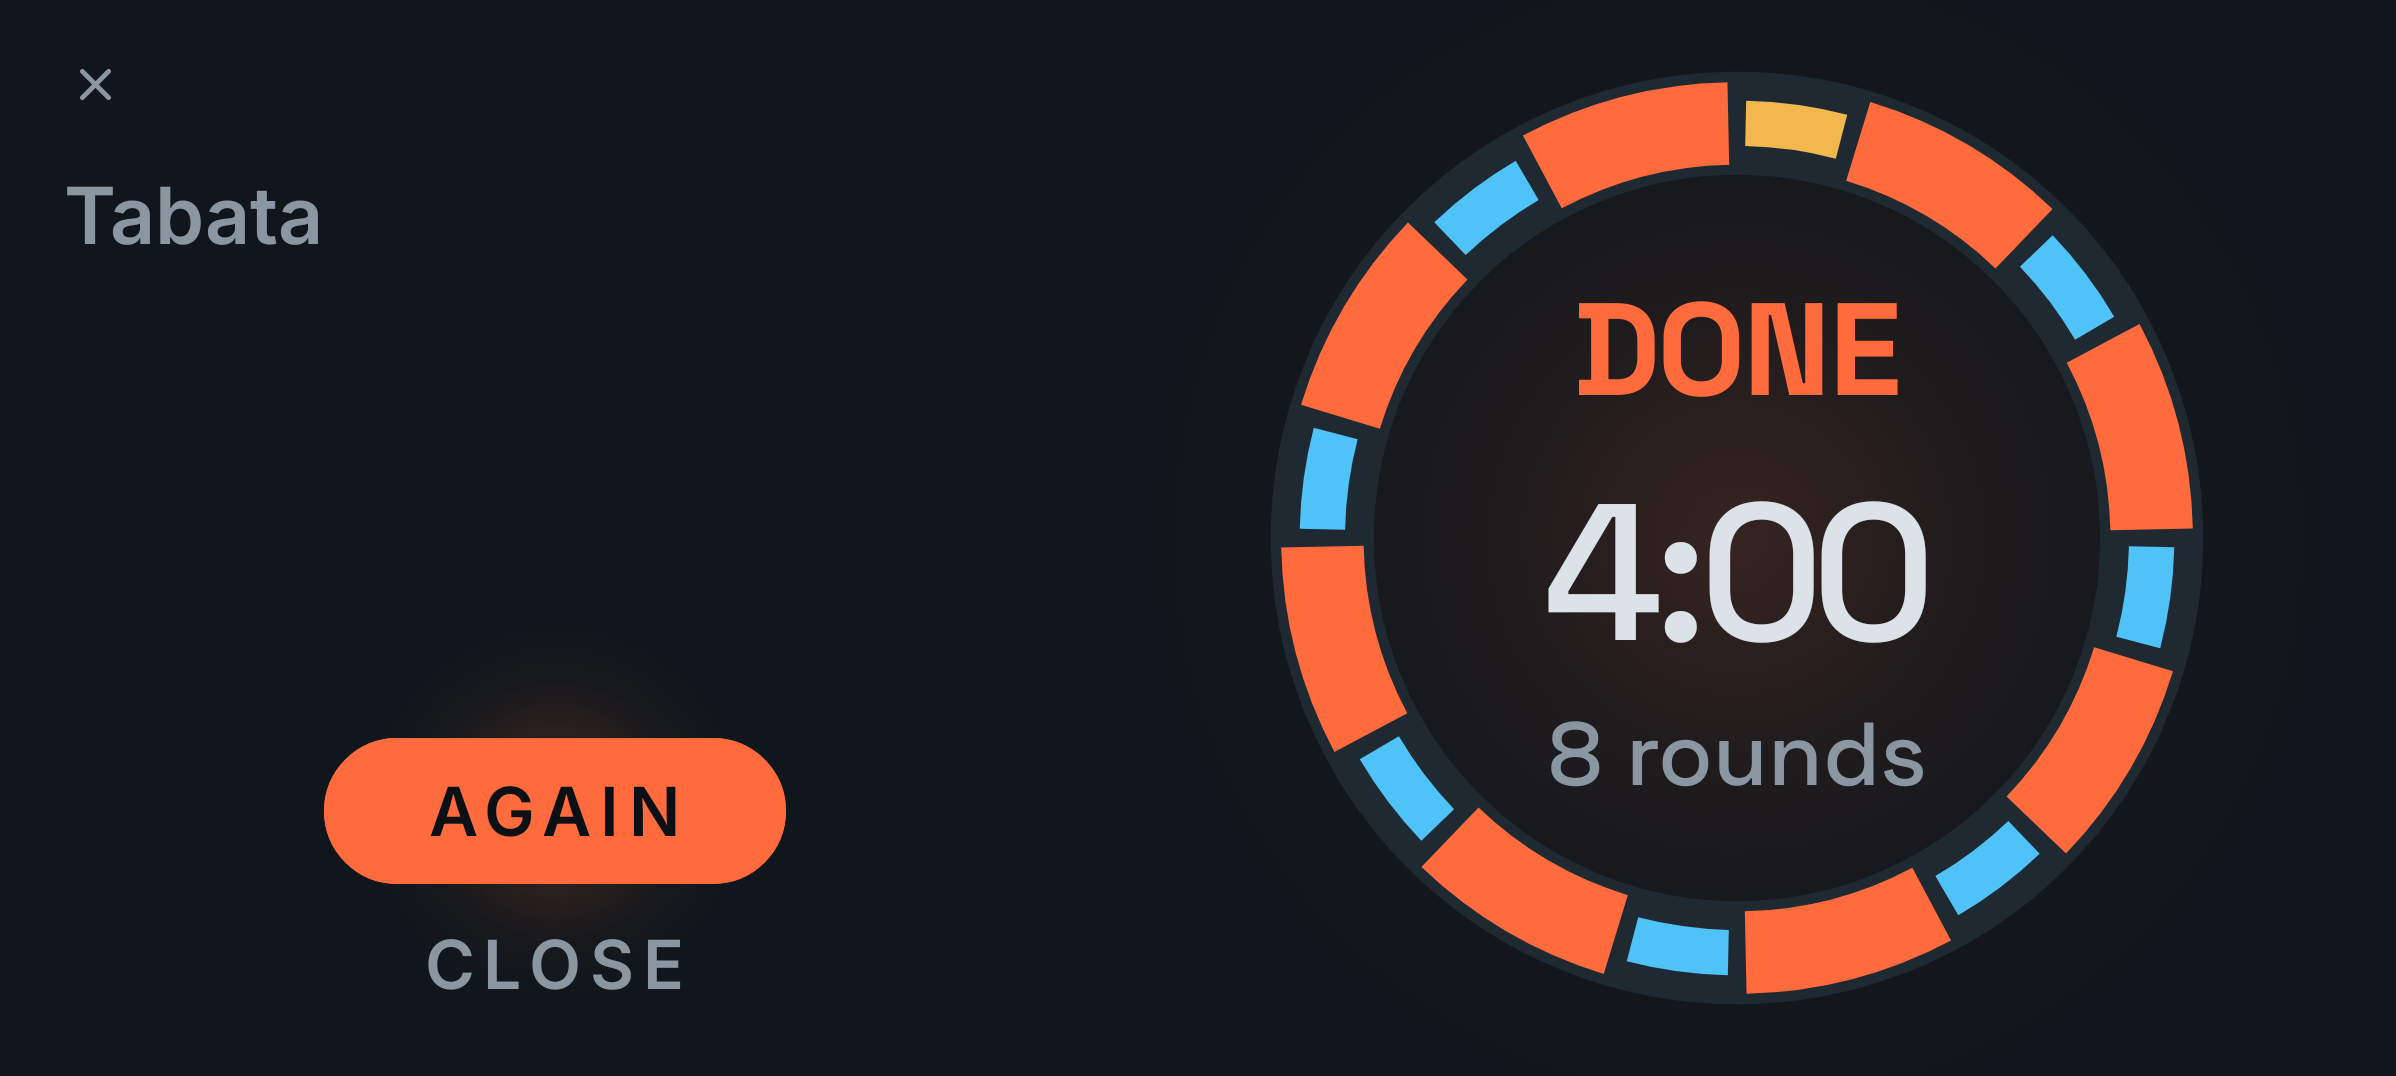
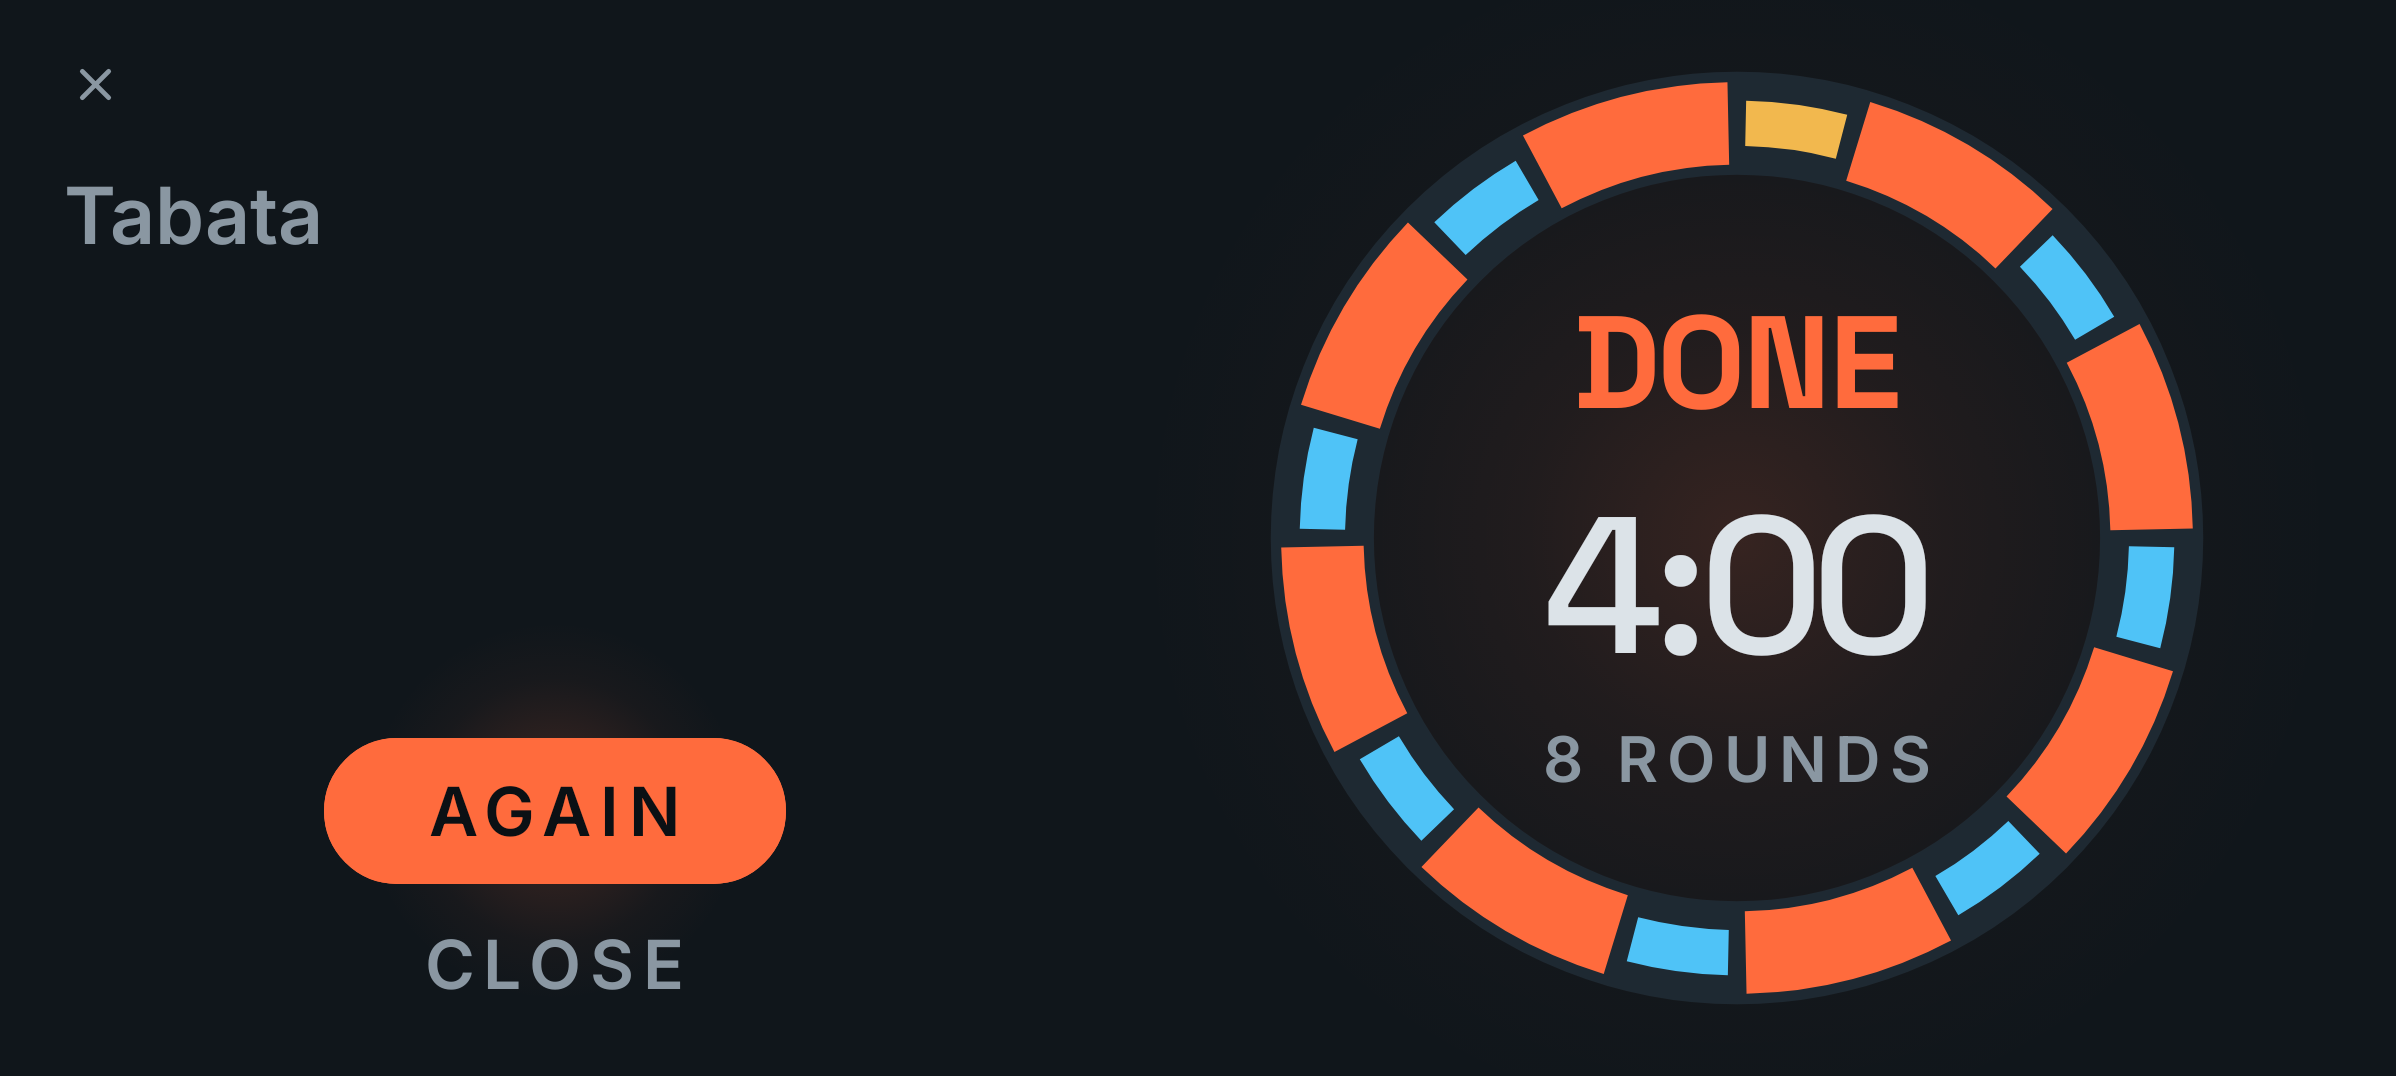
roundr: Start/Fertig kompakter, Screenshots neu

Changed region(s): [[0.6486, 0.46, 0.803, 0.6134], [0.6486, 0.276, 0.803, 0.3987], [0.6486, 0.6747, 0.803, 0.7361]]

diff --git a/apps/roundr/src/main/kotlin/solutions/xapient/roundr/ui/DoneScreen.kt b/apps/roundr/src/main/kotlin/solutions/xapient/roundr/ui/DoneScreen.kt
@@ -75,12 +75,13 @@ fun DoneScreen(workout: Workout, onAgain: () -> Unit, onClose: () -> Unit) {
                             maxLines = 1,
                             autoSize = TextAutoSize.StepBased(minFontSize = 18.sp, maxFontSize = 72.sp, stepSize = 2.sp),
                         )
+                        Spacer(Modifier.height(4.dp))
                         BasicText(
-                            pluralStringResource(R.plurals.rounds_done, rounds, rounds),
+                            pluralStringResource(R.plurals.rounds_done, rounds, rounds).uppercase(),
                             Modifier.fillMaxWidth(),
-                            style = Aapps.type.number.copy(color = c.fgMuted, textAlign = TextAlign.Center),
+                            style = Aapps.type.label.copy(color = c.fgMuted, textAlign = TextAlign.Center),
                             maxLines = 1,
-                            autoSize = TextAutoSize.StepBased(minFontSize = 10.sp, maxFontSize = 20.sp, stepSize = 0.5.sp),
+                            autoSize = TextAutoSize.StepBased(minFontSize = 8.sp, maxFontSize = Aapps.type.label.fontSize, stepSize = 0.5.sp),
                         )
                     }
                 }
@@ -123,8 +124,13 @@ fun DoneScreen(workout: Workout, onAgain: () -> Unit, onClose: () -> Unit) {
                         maxLines = 1,
                     )
                 }
-                hero(Modifier.weight(1f).fillMaxWidth().padding(24.dp))
-                Box(Modifier.fillMaxWidth().padding(bottom = 12.dp), contentAlignment = Alignment.Center) { actions() }
+                // Ring und Aktionen als Gruppe leicht ueber der Mitte
+                Spacer(Modifier.weight(0.4f))
+                Column(verticalArrangement = Arrangement.spacedBy(32.dp)) {
+                    hero(Modifier.weight(1f, fill = false).fillMaxWidth().padding(horizontal = 12.dp))
+                    Box(Modifier.fillMaxWidth(), contentAlignment = Alignment.Center) { actions() }
+                }
+                Spacer(Modifier.weight(0.6f))
             }
         }
     }

diff --git a/apps/roundr/src/main/kotlin/solutions/xapient/roundr/ui/HomeScreen.kt b/apps/roundr/src/main/kotlin/solutions/xapient/roundr/ui/HomeScreen.kt
@@ -109,8 +109,13 @@ fun HomeScreen(
                     Box(Modifier.weight(1f)) { NameChip(workout, onLibrary) }
                     Gear(onSettings)
                 }
-                hero(Modifier.weight(1f).fillMaxWidth().padding(horizontal = 24.dp, vertical = 8.dp))
-                Values(workout, onEdit, Modifier.fillMaxWidth().padding(horizontal = 16.dp))
+                // Ring und Werte als Gruppe leicht ueber der Mitte
+                Spacer(Modifier.weight(0.4f))
+                Column(verticalArrangement = Arrangement.spacedBy(28.dp)) {
+                    hero(Modifier.weight(1f, fill = false).fillMaxWidth().padding(horizontal = 12.dp))
+                    Values(workout, onEdit, Modifier.fillMaxWidth().padding(horizontal = 16.dp))
+                }
+                Spacer(Modifier.weight(0.6f))
                 Box(Modifier.fillMaxWidth().padding(top = 20.dp, bottom = 16.dp), contentAlignment = Alignment.Center) { start() }
             }
         }

diff --git a/apps/roundr/SPEC.md b/apps/roundr/SPEC.md
@@ -45,7 +45,7 @@ Kein INTERNET, kein Exact-Alarm (der Dienst läuft ja).
 | `run_work` | Arbeit, Runde 3/8, 60 % übrig |
 | `run_rest`, `run_prep`, `run_setrest` | Pause fast leer, Vorbereitung, Satzpause |
 | `run_last3` | Arbeit, 2 s übrig |
-| `run_paused` | angehalten, gedimmt |
+| `run_paused` | angehalten: „Paused" groß, Zahl als Umriss, Schraffur |
 | `run_long` | Boxen, 2:41 übrig |
 | `done` | Fertig |
 | `library`, `editor`, `settings`, `about` | |
